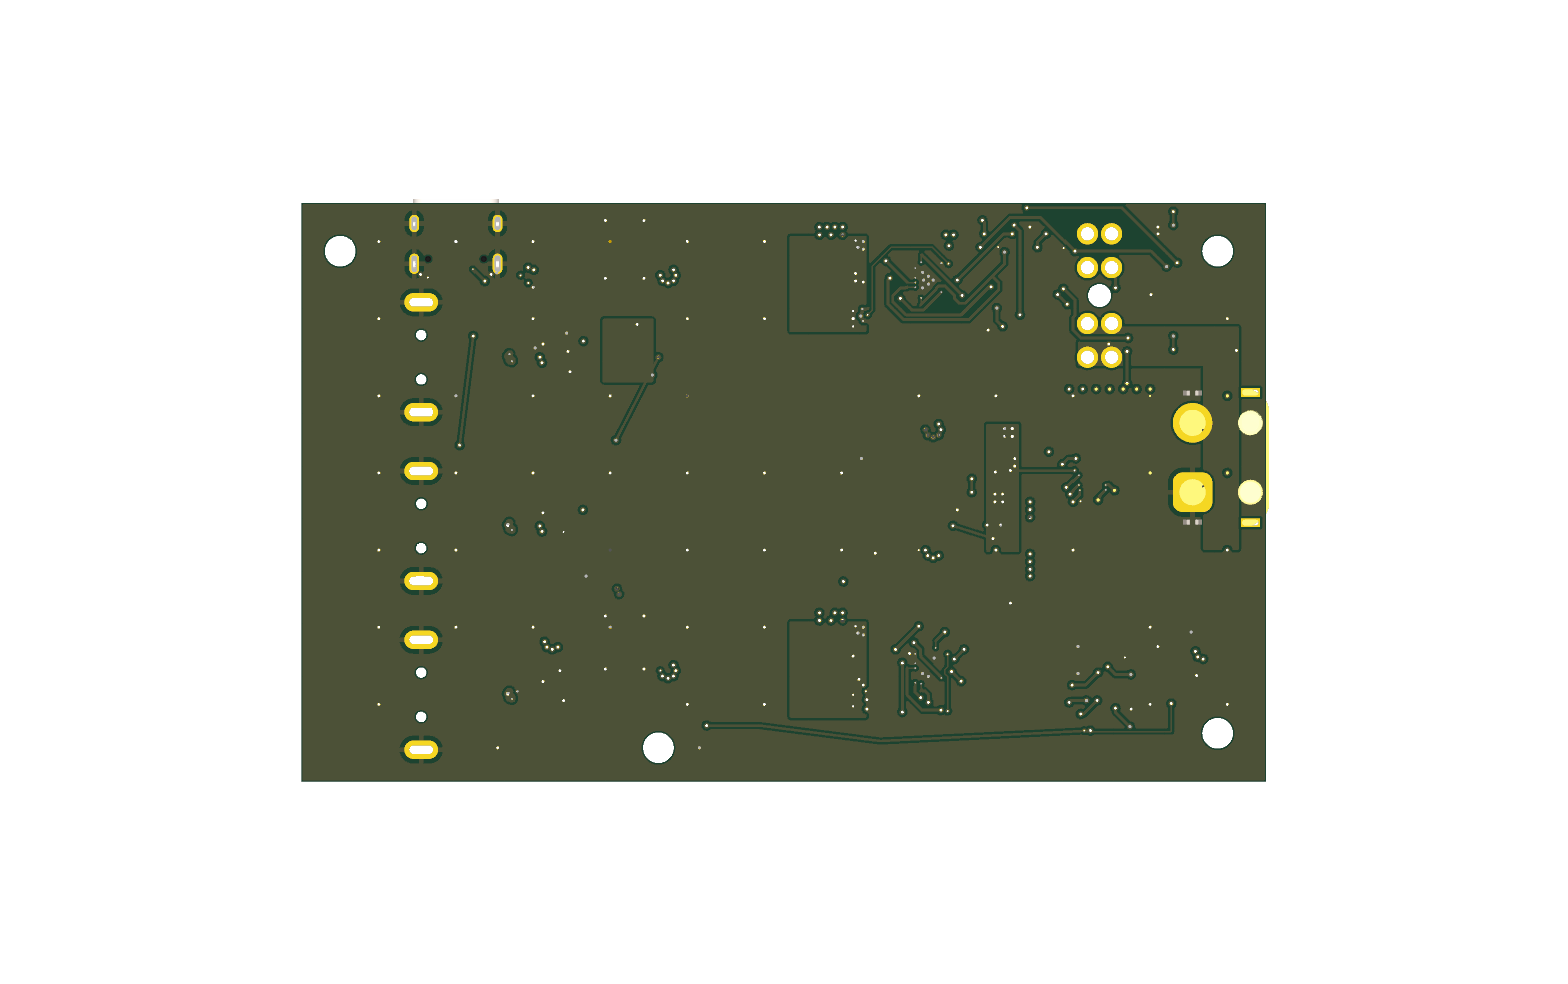
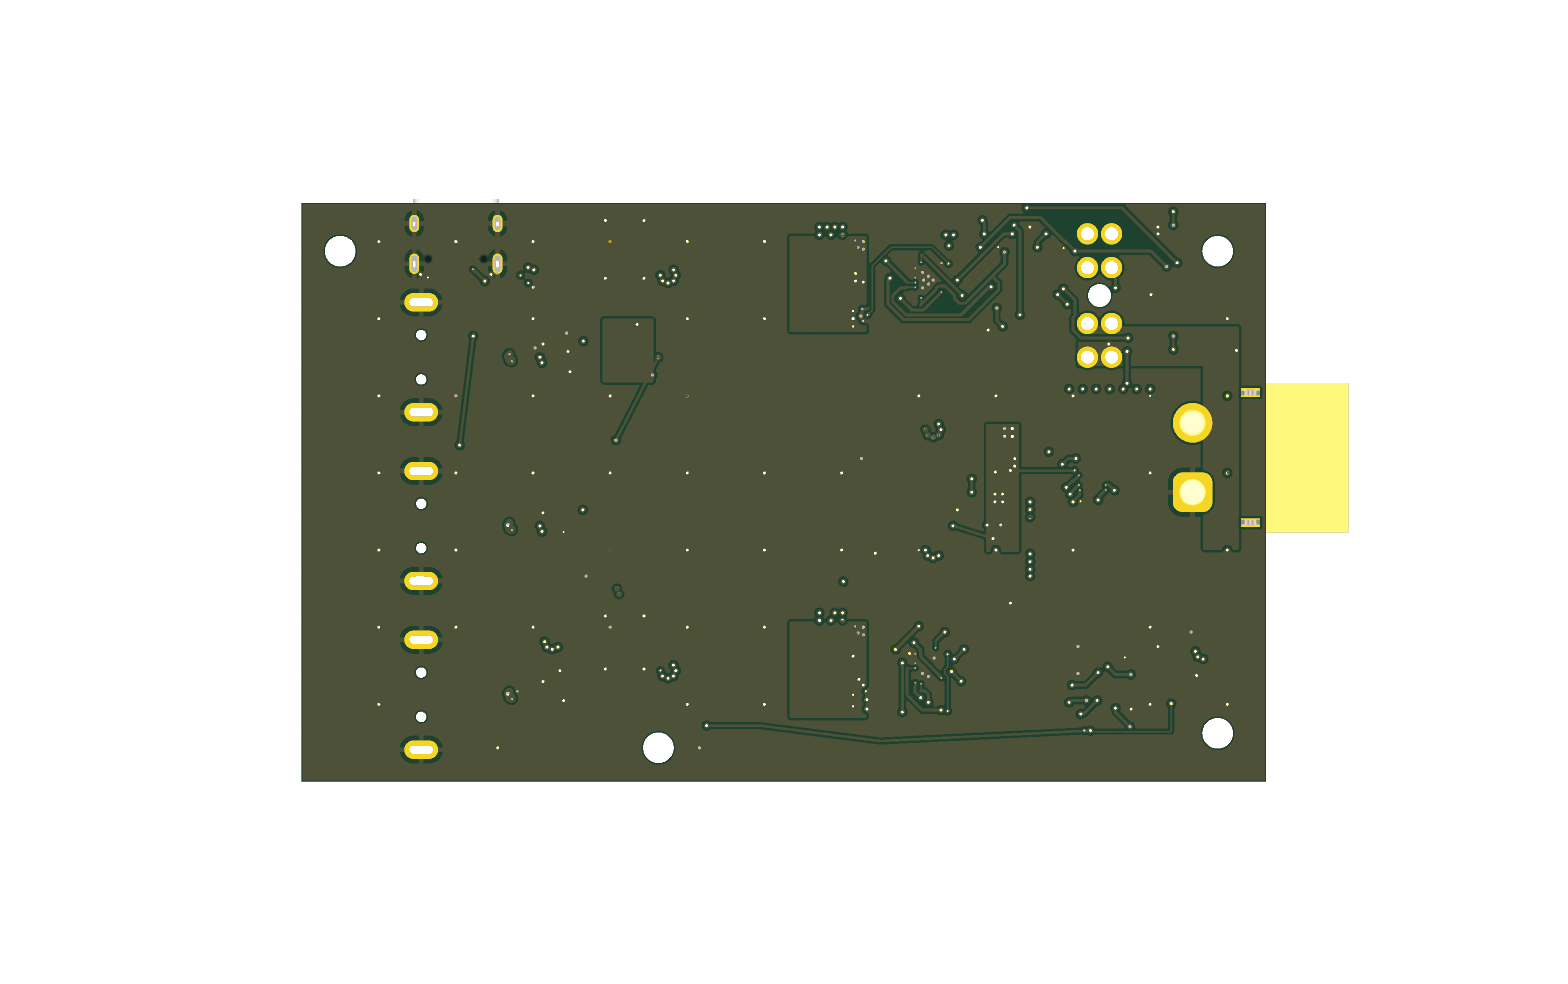
MODEL-REG invariant + model-rotation sign fix (verified by pixel ground truth)
New automated check per part: parse the WRL plan bbox, transform through the
mount, require the body to sit on OUR courtyard (<1mm). On the way in it
exposed that the mount's model z-rotation used -fit-angle: asymmetric parts
rendered 180deg flipped (XT60 flush with the edge instead of 9mm overhung,
rear appearing to overlap U1). The original registration math AGREED with the
wrong render - checker and checked shared the sign bug; the independent
pixel measurement broke the tie. Now: mount uses +angle (production render
measures +9.6mm overhang vs expected +8.6..9.3), reg_check aligned, detector
calibrated against a deliberately mis-rotated model (flags 8.3mm + fix hint),
adjudications support per-part model_rot_z overrides. Also fixed: the
override was being clobbered by the subsequent rotation assignment, and two
SWIG write-back no-op traps documented. 90 parts MODEL-REG-OK.

Changed region(s): [[0.75, 0.3659, 0.875, 0.5488]]

diff --git a/skills/jlcpcb-fab/scripts/jlc_twin.py b/skills/jlcpcb-fab/scripts/jlc_twin.py
@@ -114,6 +114,66 @@ def best_fit(ours, jlc):
     return sorted(fits)
 
 
+def wrl_bbox(path):
+    """Plan-view (x,y) bbox of a KiCad WRL model, in mm.
+    KiCad VRML convention: 1 VRML unit = 2.54 mm. Returns (minx,miny,maxx,maxy)
+    in the MODEL frame (y-up), or None if unparseable."""
+    import re
+    try:
+        txt = open(path, errors="ignore").read()
+    except OSError:
+        return None
+    pts = []
+    for m in re.finditer(r"point\s*\[([^\]]*)\]", txt):
+        nums = re.findall(r"-?\d+\.?\d*(?:e-?\d+)?", m.group(1))
+        for i in range(0, len(nums) - 2, 3):
+            pts.append((float(nums[i]), float(nums[i + 1])))
+    if not pts:
+        return None
+    xs = [p[0] * 2.54 for p in pts]
+    ys = [p[1] * 2.54 for p in pts]
+    return (min(xs), min(ys), max(xs), max(ys))
+
+
+def reg_check(model_bbox, jm, ang, jc, oc, fp):
+    """Model-registration invariant: the mounted body's plan bbox must sit on
+    OUR footprint's courtyard. Returns (center_delta_mm, size_ratio, our_ctr)
+    or None when there is no courtyard to compare against."""
+    cc = fp.GetCourtyard(pcbnew.F_CrtYd)
+    if not cc.OutlineCount():
+        return None
+    cb = cc.BBox()
+    rot = fp.GetOrientationDegrees()
+    fpos = fp.GetPosition()
+    # model frame (y-up) -> JLC footprint frame (y-down), incl. entry offset/rot
+    mrot = math.radians(jm.m_Rotation.z)
+    cm, sm = math.cos(mrot), math.sin(mrot)
+    corners = []
+    for mx in (model_bbox[0], model_bbox[2]):
+        for my in (model_bbox[1], model_bbox[3]):
+            rx = mx * cm - my * sm            # R(+theta) y-up CCW - the sense
+            ry = mx * sm + my * cm            # KiCad actually renders (verified)
+            jx = rx * jm.m_Scale.x + jm.m_Offset.x
+            jy = -(ry * jm.m_Scale.y + jm.m_Offset.y)   # to y-down
+            # JLC frame -> our footprint local frame (fit transform)
+            c, sn = math.cos(math.radians(ang)), math.sin(math.radians(ang))
+            lx = (jx - jc[0]) * c - (jy - jc[1]) * sn + oc[0]
+            ly = (jx - jc[0]) * sn + (jy - jc[1]) * c + oc[1]
+            # our local -> board (KiCad footprint rotation th: (x,y)->R(-th))
+            th = math.radians(rot)
+            bx = lx * math.cos(th) + ly * math.sin(th) + fpos.x / 1e6
+            by = -lx * math.sin(th) + ly * math.cos(th) + fpos.y / 1e6
+            corners.append((bx, by))
+    mnx = min(c[0] for c in corners); mxx = max(c[0] for c in corners)
+    mny = min(c[1] for c in corners); mxy = max(c[1] for c in corners)
+    mcx, mcy = (mnx + mxx) / 2, (mny + mxy) / 2
+    ccx, ccy = cb.Centre().x / 1e6, cb.Centre().y / 1e6
+    delta = math.hypot(mcx - ccx, mcy - ccy)
+    area_m = max(1e-6, (mxx - mnx) * (mxy - mny))
+    area_c = max(1e-6, cb.GetWidth() / 1e6 * cb.GetHeight() / 1e6)
+    return delta, area_m / area_c, (ccx, ccy)
+
+
 def rot_db(path):
     import re
     db = []
@@ -143,6 +203,9 @@ def main():
     if args.adjudications and os.path.exists(args.adjudications):
         import yaml
         adjudicated = yaml.safe_load(open(args.adjudications)) or []
+
+    model_rot_override = {a["lcsc"]: float(a["model_rot_z"])
+                          for a in adjudicated if a.get("model_rot_z") is not None}
 
     def adjudicate(lcsc, ref, status):
         for a in adjudicated:
@@ -211,7 +274,7 @@ def main():
                 # render is exactly where a human adjudicates these
                 nm = [x for x in fits if not x[1]]
                 if nm:
-                    twin[ref] = (jfp, nm[0][2], oc, _jca)
+                    twin[ref] = (jfp, nm[0][2], oc, _jca, lcsc)
                 continue
             e, mir, ang = good[0]
             if mir:
@@ -231,17 +294,45 @@ def main():
             findings.append((lcsc, ref, status,
                              f"fit={e:.2f}mm jlc_offset={ang} db={db_off}"
                              + (f" -> add: {fpname},{ang}" if status != "OK" else "")))
-            twin[ref] = (jfp, ang, oc, _jca)
+            twin[ref] = (jfp, ang, oc, _jca, lcsc)
 
     # ---- twin render: JLC models mounted on OUR board
     if not args.no_render and twin:
         tb = pcbnew.LoadBoard(args.board)
-        for ref, (jfp, ang, oc, jc_common) in twin.items():
+        mrotz = {}
+        for ref, (jfp, ang, oc, jc_common, lcsc) in twin.items():
+            if lcsc in model_rot_override:
+                mrotz[ref] = model_rot_override[lcsc]
+        for ref, (jfp, ang, oc, jc_common, lcsc) in twin.items():
             fp = tb.FindFootprintByReference(ref)
             jmodels = list(jfp.Models())
             if not fp or not jmodels:
                 continue
             jc = jc_common  # common-pad centroid captured at fit time
+            # --- model-registration invariant: mounted body bbox must sit on
+            # OUR courtyard (catches flipped/shifted/wrong JLC models AND our
+            # own mount bugs - an XT60 WRL was 180deg-flipped vs JLC's own
+            # footprint, rendering flush instead of 9mm overhung, 2026-07-16)
+            mb = wrl_bbox(jmodels[0].m_Filename)
+            if mb:
+                jm0 = jmodels[0]
+                saved = jm0.m_Rotation.z
+                jm0.m_Rotation.z = (saved + mrotz.get(ref, 0.0)) % 360
+                rc = reg_check(mb, jm0, ang, jc, oc, fp)
+                if rc and rc[0] > 1.0:
+                    # would a 180 flip fix it? then say so in the finding
+                    jm0.m_Rotation.z = (jm0.m_Rotation.z + 180) % 360
+                    rc2 = reg_check(mb, jm0, ang, jc, oc, fp)
+                    hint = (" -> 180-flipped model: add {lcsc: %s, model_rot_z: 180} "
+                            "to the adjudications file" % lcsc
+                            if rc2 and rc2[0] < 1.0 else "")
+                    findings.append((lcsc, ref, "MODEL-REG",
+                                     f"body center {rc[0]:.1f}mm off courtyard, "
+                                     f"area ratio {rc[1]:.2f}{hint}"))
+                elif rc:
+                    findings.append((lcsc, ref, "MODEL-REG-OK",
+                                     f"body on courtyard ({rc[0]:.2f}mm)"))
+                jm0.m_Rotation.z = saved
             fp.Models().clear()
             c, sn = math.cos(math.radians(ang)), math.sin(math.radians(ang))
             for jm in jmodels:
@@ -258,8 +349,12 @@ def main():
                 m.m_Offset.x = bx
                 m.m_Offset.y = -by                              # -> back to y-up
                 m.m_Offset.z = jm.m_Offset.z
-                # z-rotation is CCW in the y-up 3D frame = -ang of board frame
-                m.m_Rotation.z = (jm.m_Rotation.z - ang) % 360
+                # z-rotation is +ang, NOT -ang: verified by pixel-measuring the
+                # rendered XT60 against both courtyards (-ang flipped the body
+                # 180deg: flush with the edge instead of 9mm overhung). The
+                # per-part adjudication override composes on top.
+                m.m_Rotation.z = (jm.m_Rotation.z + ang
+                                  + mrotz.get(ref, 0.0)) % 360
                 fp.Models().push_back(m)
         tb.Save(str(out / "twin.kicad_pcb"))
         VIEWS = [  # (name, extra kicad-cli render args)
@@ -295,8 +390,8 @@ def main():
         else:
             out_f.append((lcsc, ref, status, detail))
     findings = out_f
-    order = {"MIRRORED": 0, "PAD-MISMATCH": 1, "ROT-DB-SUGGEST": 2,
-             "NO-CAD": 3, "NOT-ON-BOARD": 4, "OK": 5}
+    order = {"MIRRORED": 0, "PAD-MISMATCH": 1, "MODEL-REG": 2, "ROT-DB-SUGGEST": 3,
+             "NO-CAD": 4, "NOT-ON-BOARD": 5, "MODEL-REG-OK": 6, "OK": 7}
     for f in sorted(findings, key=lambda x: order.get(x[2], 9)):
         print("  ".join(str(x) for x in f))
     n_ok = sum(1 for f in findings if f[2] == "OK")
